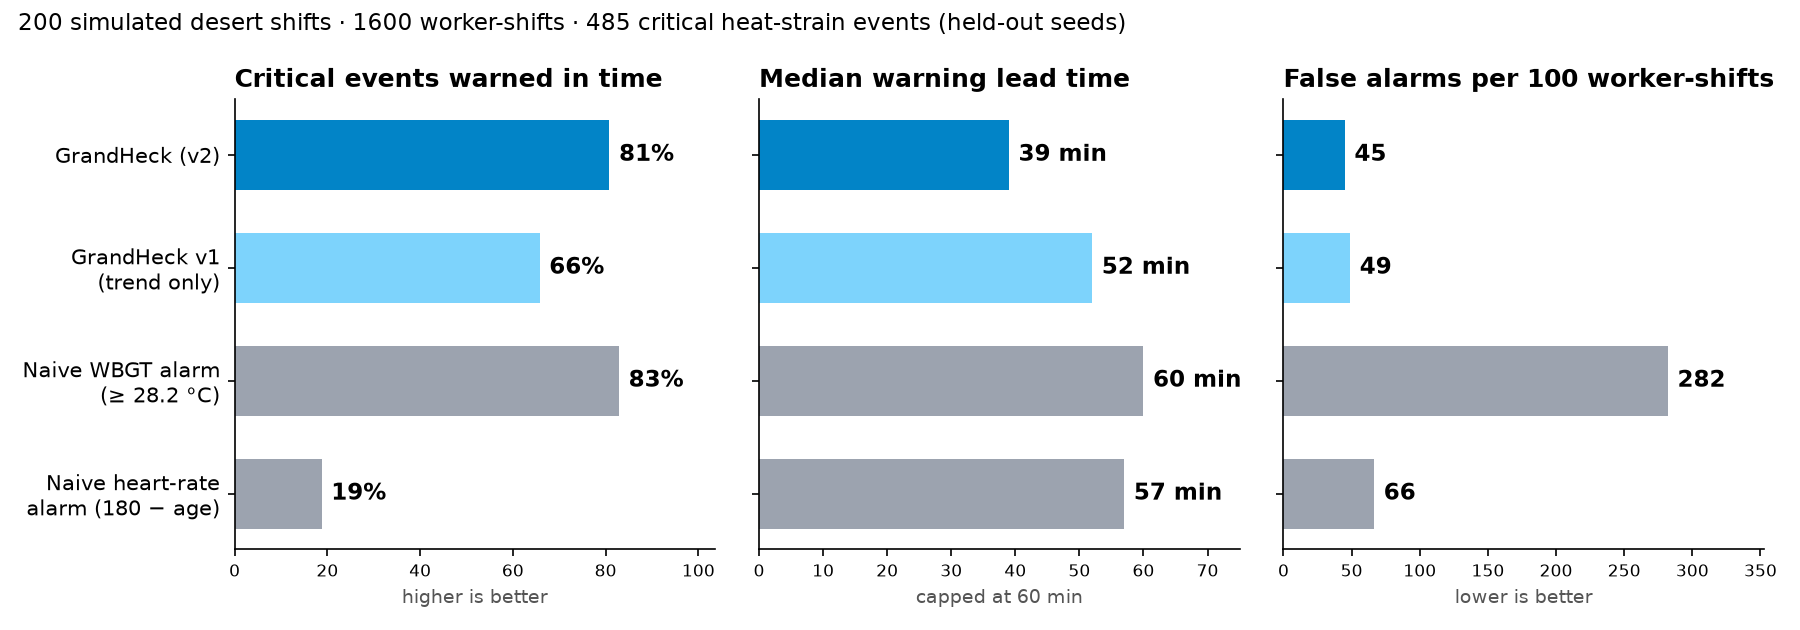
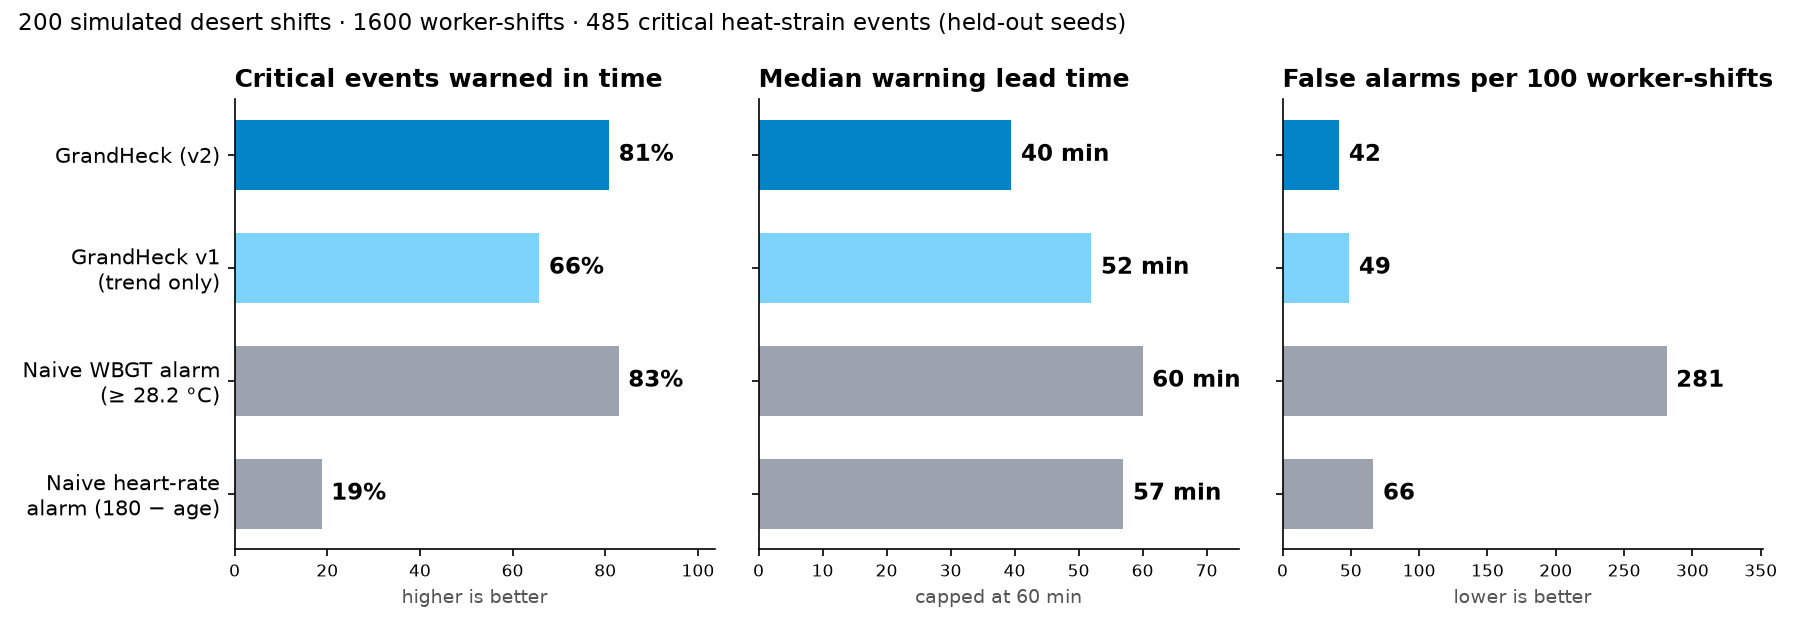
Critical tier uses central forecast; hold last solar reading on short outages
- Advisory/Warning fire on the v2 risk edge; Critical needs the central
  forecast within 5 min (or the limit reached), so it keeps meaning 'now'
- Short pyranometer gaps reuse the last good reading (flagged) instead of
  jumping to the shade-only formula; shade formula after 30 min
- Dashboard: risk-edge line, earliest-likely vs expected TTC, solar-held badge
- Model unit tests; re-ran held-out evaluation

diff --git a/frontend/src/components/WorkerDetail.tsx b/frontend/src/components/WorkerDetail.tsx
@@ -22,6 +22,7 @@ interface Row {
   core?: number | null
   truth?: number | null
   forecast?: number | null
+  risk?: number | null
   hr?: number | null
   psi?: number | null
   wbgt?: number | null
@@ -50,10 +51,15 @@ export function WorkerDetail({ worker, ticks, utcOffsetH, onClose }: {
       }
     })
     if (last && !worker.forecast_stale && !worker.signal_lost) {
-      worker.forecast_line.forEach(([k, v]) => {
-        if (k === 0) out[out.length - 1].forecast = v
-        else out.push({ minute: last.minute + k, forecast: v })
-      })
+      const future = new Map<number, Row>()
+      const at = (k: number) => {
+        if (k === 0) return out[out.length - 1]
+        if (!future.has(k)) future.set(k, { minute: last.minute + k })
+        return future.get(k)!
+      }
+      worker.forecast_line.forEach(([k, v]) => { at(k).forecast = v })
+      worker.risk_line.forEach(([k, v]) => { at(k).risk = v })
+      out.push(...[...future.values()].sort((a, b) => a.minute - b.minute))
     }
     return out
   }, [ticks, id, worker, last])
@@ -80,7 +86,14 @@ export function WorkerDetail({ worker, ticks, utcOffsetH, onClose }: {
         </div>
         <div className="detail-kpis">
           <div><div className="label">Status</div><div className={`level-chip level-${worker.level}`}>{LEVEL_LABEL[worker.level]}</div></div>
-          <div><div className="label">Time to critical</div><div className="kpi">{worker.signal_lost ? 'no signal' : worker.ttc_min === null ? '> 120' : Math.round(worker.ttc_min)}<small> min</small></div></div>
+          <div>
+            <div className="label">Time to critical · earliest likely</div>
+            <div className="kpi">{worker.signal_lost ? 'no signal' : worker.ttc_min === null ? '> 120' : Math.round(worker.ttc_min)}<small> min</small></div>
+          </div>
+          <div>
+            <div className="label">Expected</div>
+            <div className="kpi">{worker.signal_lost || worker.ttc_expected_min === null ? '—' : Math.round(worker.ttc_expected_min)}<small> min</small></div>
+          </div>
           <div><div className="label">Core trend</div><div className="kpi">{fmt(worker.core_slope_c_per_h, 1)}<small> °C/h</small></div></div>
           <div><div className="label">Above WBGT limit</div><div className="kpi">{worker.exposure_total_min}<small> min</small></div></div>
         </div>
@@ -111,6 +124,10 @@ export function WorkerDetail({ worker, ticks, utcOffsetH, onClose }: {
               <ReferenceLine x={last.minute} stroke="#475569" />
               <Line dataKey="core" name="Core (est.)" stroke={C.core} strokeWidth={3} dot={false} isAnimationActive={false} connectNulls={false} />
               <Line dataKey="forecast" name="Forecast" stroke={C.forecast} strokeWidth={3} strokeDasharray="8 5" dot={false} isAnimationActive={false} />
+              {worker.risk_line.length > 0 && (
+                <Line dataKey="risk" name="Risk edge (warns when it hits the limit)" stroke={C.forecast} strokeWidth={1.5}
+                  strokeDasharray="2 4" dot={false} isAnimationActive={false} />
+              )}
               {showTruth && <Line dataKey="truth" name="Ground truth (sim)" stroke={C.truth} strokeWidth={1.5} dot={false} isAnimationActive={false} />}
               <Legend />
             </LineChart>

diff --git a/frontend/src/types.ts b/frontend/src/types.ts
@@ -40,10 +40,12 @@ export interface WorkerSnapshot {
   exposure_total_min: number
   exposure_continuous_min: number
   ttc_min: number | null
+  ttc_expected_min: number | null
   ttc_driver: 'core' | 'psi' | null
   forecast_stale: boolean
   core_slope_c_per_h: number | null
   forecast_line: [number, number][]
+  risk_line: [number, number][]
   reasons: string[]
   point: HistoryPoint
 }
@@ -54,7 +56,7 @@ export interface SiteSnapshot {
   solar_wm2: number | null
   wind_ms: number | null
   wbgt_c: number | null
-  wbgt_method: 'liljegren' | 'bom_shade' | null
+  wbgt_method: 'liljegren' | 'liljegren_held_solar' | 'bom_shade' | null
   wbgt_trend_c_per_h: number | null
   heat_index_c: number | null
   heat_index_band: string | null
@@ -70,6 +72,7 @@ export interface Alert {
   level: Level
   kind: 'escalated' | 'renotify' | 'resolved' | 'signal_lost' | 'signal_restored'
   ttc_min: number | null
+  ttc_expected_min: number | null
   reasons: string[]
   action: string
 }
@@ -91,6 +94,7 @@ export interface RunState {
   speeds: number[]
   paused: boolean
   finished: boolean
+  forecaster: 'v1' | 'v2'
   profiles: Profile[]
   site: { id: string; name: string; lat: number; lon: number; utc_offset_h: number }
   thresholds: {

diff --git a/frontend/src/components/TopBar.tsx b/frontend/src/components/TopBar.tsx
@@ -27,6 +27,9 @@ export function TopBar({ tick, state, connected }: { tick?: Tick; state: RunStat
               shade estimate
             </span>
           )}
+          {site?.wbgt_method === 'liljegren_held_solar' && (
+            <span className="badge warn" title="Solar sensor offline: using its last good reading">solar held</span>
+          )}
         </div>
         <div className="big">
           {fmt(site?.wbgt_c, 1, '°C')}
@@ -55,7 +58,7 @@ export function TopBar({ tick, state, connected }: { tick?: Tick; state: RunStat
       <div className="gateway">
         <span className={`dot ${connected ? 'ok' : 'bad'}`} />
         {connected ? 'Gateway live' : 'Reconnecting…'}
-        <div className="sub">runs offline on site</div>
+        <div className="sub">runs offline · forecaster {state?.forecaster ?? '…'}</div>
       </div>
     </header>
   )

diff --git a/backend/grandheck/pipeline/gateway.py b/backend/grandheck/pipeline/gateway.py
@@ -186,6 +186,7 @@ class Gateway:
         self.site = SiteState()
         self.workers = {p.worker_id: WorkerState(p) for p in profiles}
         self._pending_vitals: dict[str, VitalsReading] = {}
+        self._last_solar: tuple[float, float] | None = None     # (minute, W/m2) last good reading
         self._start: datetime | None = None
         self.rejected_messages = 0
         bus.subscribe(env_topic(site_id), self._on_env)
@@ -220,9 +221,15 @@ class Gateway:
         # DETECT
         e = self.site.env
         if e is not None and e.air_temp_c is not None and e.rh_pct is not None:
-            w = estimate_wbgt(e.air_temp_c, e.rh_pct, e.wind_ms, e.solar_wm2, e.ts,
+            solar, held = e.solar_wm2, False
+            if solar is not None:
+                self._last_solar = (minute, solar)
+            elif self._last_solar and minute - self._last_solar[0] <= C.SOLAR_CARRY_FORWARD_MAX_MIN:
+                solar, held = self._last_solar[1], True        # short pyranometer gap: hold last value
+            w = estimate_wbgt(e.air_temp_c, e.rh_pct, e.wind_ms, solar, e.ts,
                               self.lat, self.lon, e.pressure_hpa)
-            self.site.wbgt_c, self.site.wbgt_method = w.wbgt_c, w.method
+            self.site.wbgt_c = w.wbgt_c
+            self.site.wbgt_method = "liljegren_held_solar" if held else w.method
             self.site.heat_index_c = hi.heat_index_c(e.air_temp_c, e.rh_pct)
             self.site.wbgt_history.append((minute, w.wbgt_c))
         site = self.site.snapshot(minute)
@@ -244,13 +251,14 @@ class Gateway:
             if self.model is not None and not fc.stale and not ws.signal_lost:
                 path = self.model.predict_path(ws.features, ws.filter.ct)
                 risk = self.model.risk_path(path, self.risk_z)
-                fc = combine_with_model(fc, path, ws.core_limit_c, time_to_limit(risk, ws.core_limit_c))
+                fc = combine_with_model(fc, path, ws.core_limit_c, time_to_limit(risk, ws.core_limit_c), risk,
+                                        ttc_core_expected=time_to_limit(path, ws.core_limit_c))
             ws.forecast = fc
             at_threshold = (not ws.signal_lost) and (
                 ws.filter.ct >= ws.core_limit_c or (ws.psi is not None and ws.psi >= C.PSI_CRITICAL))
             extra = C.ALERT_OLDER_WORKER_EXTRA_MIN if ws.older else 0.0
             events = ws.alerts.step(AlertInputs(
-                ttc_min=fc.ttc_min, at_threshold=at_threshold,
+                ttc_min=fc.ttc_min, ttc_expected_min=fc.ttc_expected_min, at_threshold=at_threshold,
                 exposure_minutes=ws.exposure_continuous_min, signal_lost=ws.signal_lost,
                 extra_lead_min=extra))
             ws.reasons = explain(ReasonInputs(
@@ -305,10 +313,12 @@ class Gateway:
             "exposure_total_min": ws.exposure_total_min,
             "exposure_continuous_min": ws.exposure_continuous_min,
             "ttc_min": None if fc.ttc_min is None else round(fc.ttc_min, 1),
+            "ttc_expected_min": None if fc.ttc_expected_min is None else round(fc.ttc_expected_min, 1),
             "ttc_driver": fc.driver,
             "forecast_stale": fc.stale,
             "core_slope_c_per_h": None if fc.core_slope_c_per_h is None else round(fc.core_slope_c_per_h, 2),
             "forecast_line": [(round(k, 1), round(v, 3)) for k, v in fc.core_line],
+            "risk_line": [(round(k, 1), round(v, 3)) for k, v in fc.risk_line],
             "reasons": ws.reasons,
             "point": h,
         }

diff --git a/backend/tests/test_model.py b/backend/tests/test_model.py
@@ -1,0 +1,60 @@
+import numpy as np
+import pytest
+
+from grandheck.pipeline.forecaster import Forecast, combine_with_model
+from grandheck.pipeline.model import (FEATURES, HORIZONS_MIN, RidgeModel, feature_vector, fit_ridge,
+                                      time_to_limit)
+
+
+def test_time_to_limit_interpolates():
+    path = [(0, 37.8), (10, 38.0), (20, 38.2), (30, 38.6)]
+    assert time_to_limit(path, 38.1) == pytest.approx(15.0)
+    assert time_to_limit(path, 37.5) == 0.0
+    assert time_to_limit(path, 39.0) is None
+
+
+def test_fit_ridge_recovers_linear_relationship():
+    rng = np.random.default_rng(0)
+    X = rng.normal(size=(2000, 3))
+    Y = np.stack([2.0 * X[:, 0] - 1.0 * X[:, 2] + 0.5 for _ in HORIZONS_MIN], axis=1)
+    m = fit_ridge(X, Y, alpha=1e-6)
+    pred = ((X - m.mean) / m.scale) @ m.coef.T + m.intercept
+    assert np.allclose(pred, Y, atol=1e-3)
+
+
+def test_risk_path_adds_scaled_error():
+    m = RidgeModel(np.zeros(1), np.ones(1), np.zeros((6, 1)), np.zeros(6), resid_std=np.full(6, 0.2))
+    path = [(h, 38.0) for h in HORIZONS_MIN]
+    assert all(v == pytest.approx(38.2) for _, v in m.risk_path(path, 1.0))
+
+
+def test_feature_vector_matches_feature_list():
+    x = feature_vector(core_est=37.8, core_slope_c_per_h=0.5, hr=130, hr_rise_15=10, psi=4.0,
+                       wbgt_excess=3.0, wbgt_trend_c_per_h=1.0, working=True, minutes_since_rest=40,
+                       acclimatized=False, workload="heavy", older=False, data_minutes=90)
+    assert x.shape == (len(FEATURES),)
+    assert x[FEATURES.index("excess_x_unacclimatized")] == 3.0
+    assert x[FEATURES.index("data_minutes_h")] == 1.0          # capped
+
+
+def test_shipped_model_loads_and_is_sane():
+    m = RidgeModel.load()
+    assert m is not None, "run `python -m eval.train_forecaster` to create the model file"
+    hot = feature_vector(core_est=37.8, core_slope_c_per_h=0.8, hr=140, hr_rise_15=12, psi=5.0,
+                         wbgt_excess=6.0, wbgt_trend_c_per_h=1.0, working=True, minutes_since_rest=80,
+                         acclimatized=False, workload="heavy", older=False, data_minutes=120)
+    rest = feature_vector(core_est=37.8, core_slope_c_per_h=-0.5, hr=90, hr_rise_15=-10, psi=2.0,
+                          wbgt_excess=-2.0, wbgt_trend_c_per_h=0.0, working=False, minutes_since_rest=0,
+                          acclimatized=True, workload="light", older=False, data_minutes=120)
+    hot_30 = m.predict_path(hot, 37.8)[3][1]
+    rest_30 = m.predict_path(rest, 37.8)[3][1]
+    assert hot_30 > 37.8 > rest_30            # a hot, working new worker heats; a resting one cools
+
+
+def test_combine_prefers_model_crossing_and_keeps_psi():
+    v1 = Forecast(ttc_min=12.0, driver="psi", core_slope_c_per_h=0.4, psi_slope_per_h=3.0, stale=False)
+    path = [(h, 37.8 + 0.01 * h) for h in HORIZONS_MIN]
+    fc = combine_with_model(v1, path, 38.5, ttc_core_model=None)
+    assert fc.ttc_min == 12.0 and fc.driver == "psi"
+    fc = combine_with_model(v1, path, 38.5, ttc_core_model=8.0)
+    assert fc.ttc_min == 8.0 and fc.driver == "core"

diff --git a/backend/grandheck/pipeline/forecaster.py b/backend/grandheck/pipeline/forecaster.py
@@ -29,6 +29,8 @@ class Forecast:
     psi_slope_per_h: float | None
     stale: bool                     # not enough real data to forecast
     core_line: list[tuple[float, float]] = field(default_factory=list)  # (minutes ahead, core C)
+    risk_line: list[tuple[float, float]] = field(default_factory=list)  # v2: forecast + z x error
+    ttc_expected_min: float | None = None   # crossing of the central forecast (v1: same as ttc_min)
 
 
 def _slope_per_min(t: np.ndarray, y: np.ndarray) -> float:
@@ -75,15 +77,22 @@ def forecast(times_min: list[float], core_c: list[float | None], psi: list[float
     # Projected core line for the chart: out to the crossing (plus a little), max 60 min.
     reach = min(60.0, (ttc_core + 10.0) if ttc_core is not None else 60.0)
     line = [(float(k), float(c[-1] + core_slope * k)) for k in range(0, int(reach) + 1, 5)]
-    return Forecast(ttc, driver, core_slope * 60.0, psi_slope * 60.0, stale=False, core_line=line)
+    return Forecast(ttc, driver, core_slope * 60.0, psi_slope * 60.0, stale=False, core_line=line,
+                    ttc_expected_min=ttc)
 
 
 def combine_with_model(v1: Forecast, path: list[tuple[int, float]], core_limit_c: float,
-                       ttc_core_model: float | None) -> Forecast:
+                       ttc_core_model: float | None,
+                       risk: list[tuple[int, float]] | None = None,
+                       ttc_core_expected: float | None = None) -> Forecast:
     """
     v2: the model's predicted core path replaces straight-line extrapolation for
     the core-temperature crossing within its 60-min reach. Beyond that reach we
     keep v1's longer-range estimate; the PSI crossing still comes from v1.
+
+    ttc_core_model is the crossing of the RISK edge (forecast + z x error): it
+    drives Advisory/Warning. ttc_core_expected is the crossing of the central
+    forecast: Critical ("it is happening now") is reserved for that.
     """
     if v1.stale:
         return v1
@@ -95,7 +104,11 @@ def combine_with_model(v1: Forecast, path: list[tuple[int, float]], core_limit_c
     candidates = [(v, n) for v, n in ((ttc_core, "core"), (ttc_psi, "psi")) if v is not None]
     ttc, driver = min(candidates) if candidates else (None, None)
     line = [(float(h), float(v)) for h, v in path]
-    return Forecast(ttc, driver, v1.core_slope_c_per_h, v1.psi_slope_per_h, stale=False, core_line=line)
+    risk_line = [(float(h), float(v)) for h, v in (risk or [])]
+    expected = [v for v in (ttc_core_expected, ttc_psi) if v is not None]
+    return Forecast(ttc, driver, v1.core_slope_c_per_h, v1.psi_slope_per_h, stale=False,
+                    core_line=line, risk_line=risk_line,
+                    ttc_expected_min=min(expected) if expected else None)
 
 
 @dataclass

diff --git a/backend/grandheck/pipeline/alerts.py b/backend/grandheck/pipeline/alerts.py
@@ -24,7 +24,8 @@ LEVELS = ["NONE", "ADVISORY", "WARNING", "CRITICAL"]
 
 @dataclass
 class AlertInputs:
-    ttc_min: float | None
+    ttc_min: float | None           # earliest likely crossing (v2: risk edge) -> Advisory/Warning
+    ttc_expected_min: float | None  # crossing of the central forecast -> Critical
     at_threshold: bool              # core estimate or PSI already at/over the danger line
     exposure_minutes: int           # continuous minutes above own WBGT limit since last rest
     signal_lost: bool
@@ -41,7 +42,8 @@ class AlertEvent:
 def raw_level(x: AlertInputs) -> int:
     """The tier the current numbers point to, before any hysteresis."""
     lead = x.extra_lead_min
-    if x.at_threshold or (x.ttc_min is not None and x.ttc_min <= C.ALERT_TTC_CRITICAL_MIN + lead):
+    if x.at_threshold or (x.ttc_expected_min is not None
+                          and x.ttc_expected_min <= C.ALERT_TTC_CRITICAL_MIN + lead):
         return 3
     if x.ttc_min is not None and x.ttc_min <= C.ALERT_TTC_WARNING_MIN + lead:
         return 2
@@ -71,9 +73,10 @@ class AlertStateMachine:
     def _clear_for_step_down(self, x: AlertInputs) -> bool:
         if x.at_threshold:
             return False
-        if x.ttc_min is None:
+        ttc = x.ttc_expected_min if self.level == 3 else x.ttc_min
+        if ttc is None:
             return True
-        return x.ttc_min > _tier_limit(self.level, x.extra_lead_min) + C.ALERT_DEESCALATE_MARGIN_MIN
+        return ttc > _tier_limit(self.level, x.extra_lead_min) + C.ALERT_DEESCALATE_MARGIN_MIN
 
     def step(self, x: AlertInputs) -> list[AlertEvent]:
         events: list[AlertEvent] = []

diff --git a/backend/tests/test_gateway.py b/backend/tests/test_gateway.py
@@ -47,13 +47,22 @@ def test_sensor_dropout_is_flagged_and_recovers():
     assert w2["signal_lost"]
     alerts = [a for t in ticks for a in t["alerts"] if a["worker_id"] == "W2"]
     assert [a["kind"] for a in alerts].count("signal_lost") == 1
-    # The weather station lost its solar sensor: WBGT falls back and says so.
-    assert ticks[2]["site"]["wbgt_method"] == "bom_shade"
+    # The weather station lost its solar sensor: the last good reading is held, and flagged.
+    assert ticks[2]["site"]["wbgt_method"] == "liljegren_held_solar"
     assert ticks[-1]["site"]["wbgt_method"] == "liljegren"
     later = advance(sim, bus, gw, 2)
     w2 = next(w for w in later[-1]["workers"] if w["worker_id"] == "W2")
     assert not w2["signal_lost"]
     assert any(a["kind"] == "signal_restored" for t in later for a in t["alerts"])
+
+
+def test_long_solar_outage_falls_back_to_shade_formula():
+    sim, bus, gw = setup()
+    advance(sim, bus, gw, 10)
+    sim.trigger_dropout("W1", minutes=1, solar_minutes=C.SOLAR_CARRY_FORWARD_MAX_MIN + 5)
+    ticks = advance(sim, bus, gw, C.SOLAR_CARRY_FORWARD_MAX_MIN + 3)
+    assert ticks[0]["site"]["wbgt_method"] == "liljegren_held_solar"
+    assert ticks[-1]["site"]["wbgt_method"] == "bom_shade"
 
 
 def test_dropout_gap_is_not_filled_in_history():

diff --git a/backend/tests/test_alerts.py b/backend/tests/test_alerts.py
@@ -2,9 +2,9 @@ from grandheck import config as C
 from grandheck.pipeline.alerts import AlertInputs, AlertStateMachine, raw_level
 
 
-def inp(ttc=None, at=False, exposure=0, lost=False, extra=0.0):
-    return AlertInputs(ttc_min=ttc, at_threshold=at, exposure_minutes=exposure, signal_lost=lost,
-                       extra_lead_min=extra)
+def inp(ttc=None, at=False, exposure=0, lost=False, extra=0.0, expected="same"):
+    return AlertInputs(ttc_min=ttc, ttc_expected_min=ttc if expected == "same" else expected,
+                       at_threshold=at, exposure_minutes=exposure, signal_lost=lost, extra_lead_min=extra)
 
 
 def run(sm, inputs):
@@ -21,6 +21,12 @@ def test_raw_level_tiers():
     assert raw_level(inp(C.ALERT_TTC_CRITICAL_MIN - 1)) == 3
     assert raw_level(inp(None, at=True)) == 3
     assert raw_level(inp(None, exposure=C.ALERT_EXPOSURE_ADVISORY_MIN)) == 1
+
+
+def test_critical_needs_the_central_forecast_not_just_the_risk_edge():
+    # Risk edge says "could cross in 3 min", central forecast says 25 min: that is a Warning, not Critical.
+    assert raw_level(inp(3, expected=25)) == 2
+    assert raw_level(inp(3, expected=4)) == 3
 
 
 def test_older_worker_extra_lead_warns_earlier():

diff --git a/backend/grandheck/config.py b/backend/grandheck/config.py
@@ -157,6 +157,9 @@ REST_MIN_DURATION_MIN = 10          # DESIGN: a rest bout must last this long to
                                     # "time since rest". NIOSH work/rest regimens use
                                     # >=15 min breaks per hour (see [NIOSH] Ch. 8).
 DROPOUT_TIMEOUT_MIN = 3             # DESIGN: no vitals for this long -> SIGNAL LOST
+SOLAR_CARRY_FORWARD_MAX_MIN = 30    # DESIGN: if the pyranometer drops out, reuse the last
+                                    # good solar reading this long (flagged in the UI)
+                                    # before falling back to the shade-only WBGT formula
 HISTORY_MINUTES = 240               # DESIGN: per-worker history kept for charts
 
 # ---------------------------------------------------------------------------

diff --git a/backend/grandheck/api/runner.py b/backend/grandheck/api/runner.py
@@ -79,6 +79,7 @@ class DemoRunner:
             "speeds": SPEEDS,
             "paused": self.paused,
             "finished": self.sim.finished,
+            "forecaster": self.gateway.forecaster_version,
             "profiles": [p.model_dump() | {"age_band": p.age_band} for p in self.sim.profiles],
             "site": {"id": C.SITE_ID, "name": C.SITE_NAME, "lat": C.SITE_LAT_DEG, "lon": C.SITE_LON_DEG,
                      "utc_offset_h": C.SITE_UTC_OFFSET_H},

diff --git a/docs/results/results.md b/docs/results/results.md
@@ -2,8 +2,8 @@ Simulated shifts: **200** · worker-shifts: **1600** · critical events (true co
 
 | System | Detected | Median lead (min) | Mean lead (min) | Missed | False alarms / 100 worker-shifts | Alarm precision | Workers never in danger who were alarmed |
 |---|---|---|---|---|---|---|---|
-| GrandHeck v2 (Warning or higher) | 392 (81%) | 39 | 37.2 | 93 | 45.0 | 38% | 13% |
-| GrandHeck v2 (Advisory or higher) | 468 (96%) | 55 | 45.1 | 17 | 159.5 | 14% | 40% |
+| GrandHeck v2 (Warning or higher) | 392 (81%) | 40 | 37.2 | 93 | 41.6 | 37% | 13% |
+| GrandHeck v2 (Advisory or higher) | 468 (96%) | 55 | 45.1 | 17 | 159.3 | 14% | 40% |
 | GrandHeck v1, trend only (Warning or higher) | 319 (66%) | 52 | 38.9 | 166 | 48.9 | 32% | 15% |
-| Naive WBGT alarm (≥ 28.2 °C) | 402 (83%) | 60 | 53.2 | 83 | 282.1 | 6% | 100% |
+| Naive WBGT alarm (≥ 28.2 °C) | 402 (83%) | 60 | 53.2 | 83 | 281.1 | 6% | 100% |
 | Naive heart-rate alarm (> 180 − age, sustained) | 91 (19%) | 57 | 42.9 | 394 | 66.5 | 10% | 15% |
